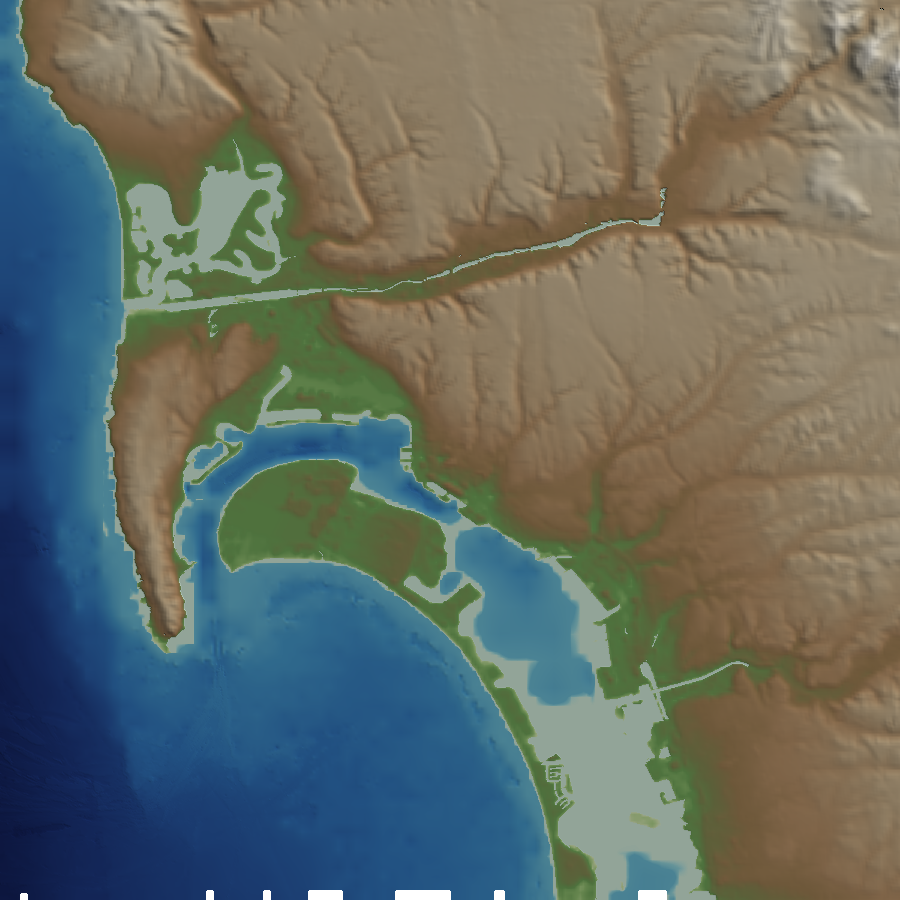
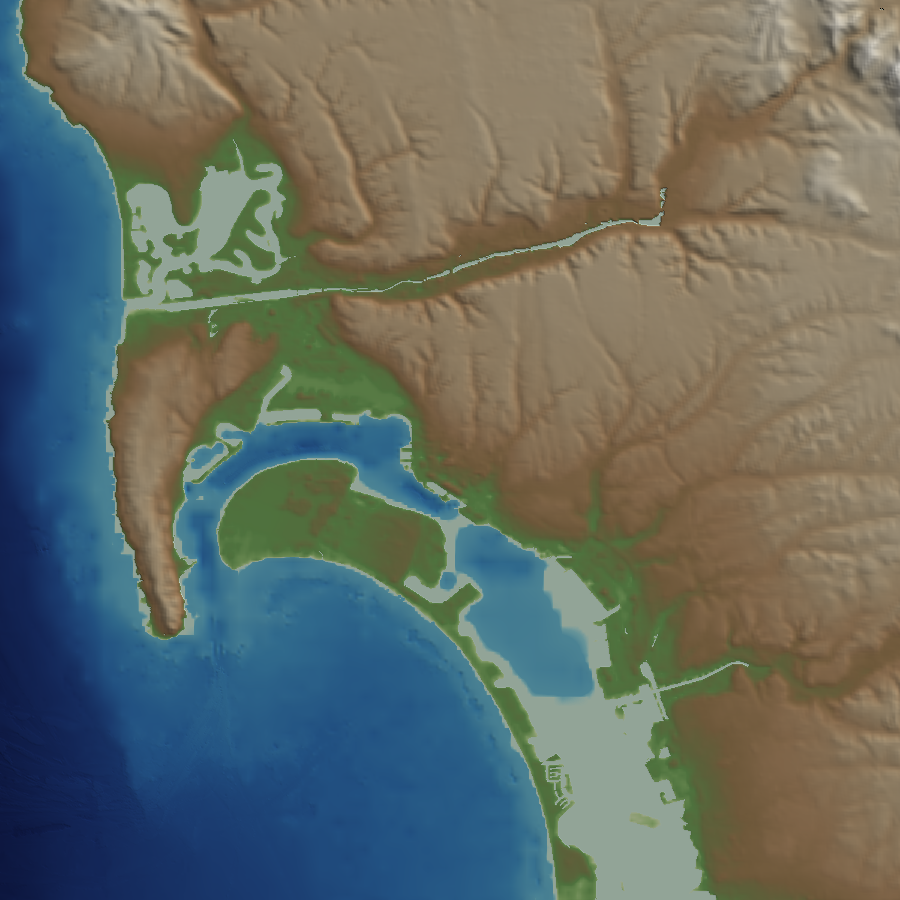
update quick-start

diff --git a/docs/source/user_guide/quickstart.md b/docs/source/user_guide/quickstart.md
@@ -66,7 +66,7 @@ globato build -R loc:"San Diego" global-bathy-topo -E 1s -O san_diego -D sd_dem 
 
 Globato will build a custom San_Diego DEM fetchez recipe and execute it!
 
-![San Diego 1s Example](/_static/san_dieg_1s.png)
+![San Diego 1s Example](/_static/san_diego_1s.png)
 *(Above: The just generated DEM of San Diego, California)*
 
 ## Next Steps
